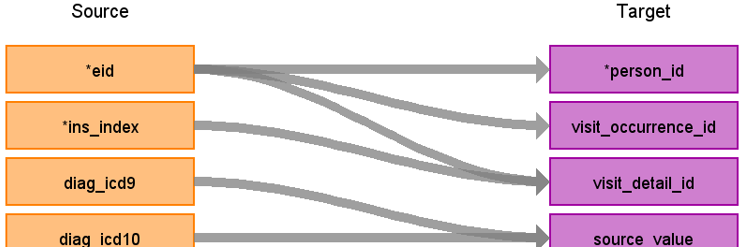
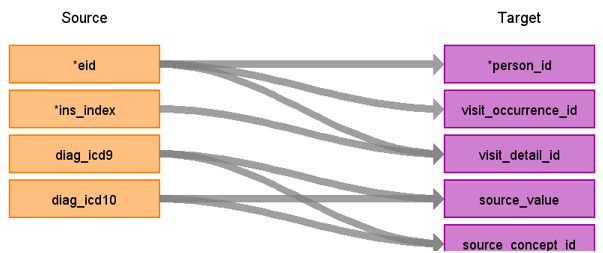
Updating ukbb HESIN Documentation.

diff --git a/docs/UK_BIOBANK/UKB_HESIN/UKB_HESIN_STEM.md b/docs/UK_BIOBANK/UKB_HESIN/UKB_HESIN_STEM.md
@@ -21,12 +21,12 @@ description: "Stem table description"
 | person_id | eid | | | 
 | visit_occurrence_id |eid,<br>hesin.spell_index | | Use eid, hesin.spell_index to retrieve visit_occurrence_id |
 | visit_detail_id|eid,<br>ins_index ||Use eid, ins_index to retrieve visit_detail_id |
-| source_value| diag_icd9,<br>diag_icd10 |Add dots when necessary | ICD10 codes provided without dots|
-| source_concept_id |  | | |
+| source_value| diag_icd9,<br>diag_icd10 |Add dots when necessary | ICD9 & ICD10 codes provided without dots|
+| source_concept_id | diag_icd9,<br>diag_icd10 | | |
 | type_concept_id |  | 32829 | |
-| start_date | hesin.epistart,<br>hesin.admidate | If hesin.epistart is null use hesin.admidate| |
+| start_date | hesin.epistart,<br>hesin.admidate | | If hesin.epistart is null use hesin.admidate|
 | start_datetime | hesin.epistart,<br>hesin.admidate|   | |
-| end_date | hesin.epiend,<br>hesin.disdate,<br>hesin.epistart,<br>hesin.admidate | | If hesin.epiend is null then use the first not null of (hesin.disdate,hesin.epistart,hesin.admidate)|
+| end_date | hesin.epiend,<br>hesin.disdate,<br>hesin.epistart,<br>hesin.admidate | | Use the first not null of (hesin.epiend,hesin.disdate,hesin.epistart,hesin.admidate)|
 | end_datetime | hesin.epiend,<br>hesin.disdate,<br>hesin.epistart,<br>hesin.admidate | | |
 | concept_id  | NULL |  |  |
 | disease_status_source_value | | | |
@@ -42,15 +42,15 @@ description: "Stem table description"
 | id|||Autogenerate|
 | domain_id | NULL | | | 
 | person_id | eid | | | 
-| visit_occurrence_id |eid,<br>spell_index | | Use eid, spell_index to retrieve visit_occurrence_id |
+| visit_occurrence_id |eid,<br>hesin.spell_index | | Use eid, hesin.spell_index to retrieve visit_occurrence_id |
 | visit_detail_id|eid,<br>ins_index ||Use eid, ins_index to retrieve visit_detail_id |
 | source_value| oper4 | Add dots when necessary| OPCS4 Codes are provided without dots|
-| source_concept_id |  | | |
+| source_concept_id | oper4 | | |
 | type_concept_id |  | 32829 | |
-| modifier_source_value | level | | |
-| start_date | opdate,<br>hesin.epistart | If opdate is null then use hesin.epistart| |
+| modifier_source_value |  | | |
+| start_date | opdate,<br>hesin.epistart | | If opdate is null then use hesin.epistart|
 | start_datetime | opdate,<br>hesin.epistart |   | |
-| end_date | opdate,<br>hesin.epistart | If opdate is null then use hesin.epistart| |
+| end_date | opdate,<br>hesin.epiend | | If opdate is null then use hesin.epiend |
 | end_datetime | opdate,<br>hesin.epistart  | | |
 | concept_id  | NULL  |  |  |
 | stem_source_table | | "hesin_oper" | |

diff --git a/docs/UK_BIOBANK/UKB_HESIN/UKB_HESIN_Provider.md b/docs/UK_BIOBANK/UKB_HESIN/UKB_HESIN_Provider.md
@@ -7,7 +7,7 @@ description: "Provider mapping from HESIN table"
 
 ---
 
-# CDM Table name: provider (CDM v5.3 / v5.4)
+# CDM Table name: provider (CDM v5.4)
 
 ## Reading from hesin
 
@@ -20,7 +20,7 @@ description: "Provider mapping from HESIN table"
 | provider_name | NULL |  |  |
 | npi | NULL |  |  |
 | dea |NULL  |  |  |
-| specialty_concept_id | tretspef,<br>mainspef | In the absence of a provider_id, we have created a dummy provider_id, each associated with a different specialty, using the first available value from either tretspef or mainspef. ||
+| specialty_concept_id | tretspef,<br>mainspef | In the absence of a provider_id, we have created a dummy provider_id's, each associated with a different specialty, using the first available value from either tretspef or mainspef. ||
 | care_site_id | NULL| | |
 | year_of_birth | NULL |  |  |
 | gender_concept_id | NULL | |  |

diff --git a/docs/UK_BIOBANK/UKB_HESIN/UKB_HESIN_Observation_Period.md b/docs/UK_BIOBANK/UKB_HESIN/UKB_HESIN_Observation_Period.md
@@ -18,5 +18,5 @@ description: "Person mapping from source_ukb_hesin.hesin & public_ukb.death tabl
 | observation_period_id |  |  |  Autogenerate|
 | person_id | eid | | |
 | observation_period_start_date | epistart,<br>admidate| | use the earliest of the two date fields that is not null.|
-| observation_period_end_date |death.date_of_death,<br>epiend,<br>disdate,<br>admidate,<br>epistart |Use admidate, epistart when disdate and epiend are null | use the latest of disdate, epiend, and admidate, then the earliest between that and date_of_death.|
+| observation_period_end_date |death.date_of_death,<br>epiend,<br>disdate,<br>admidate,<br>epistart || use the latest of (epiend, disdate, admidate, epistart), then the earliest between that and death.date_of_death.|
 | period_type_concept_id | | [32880 - Standard algorithm](https://athena.ohdsi.org/search-terms/terms/32880)| |
